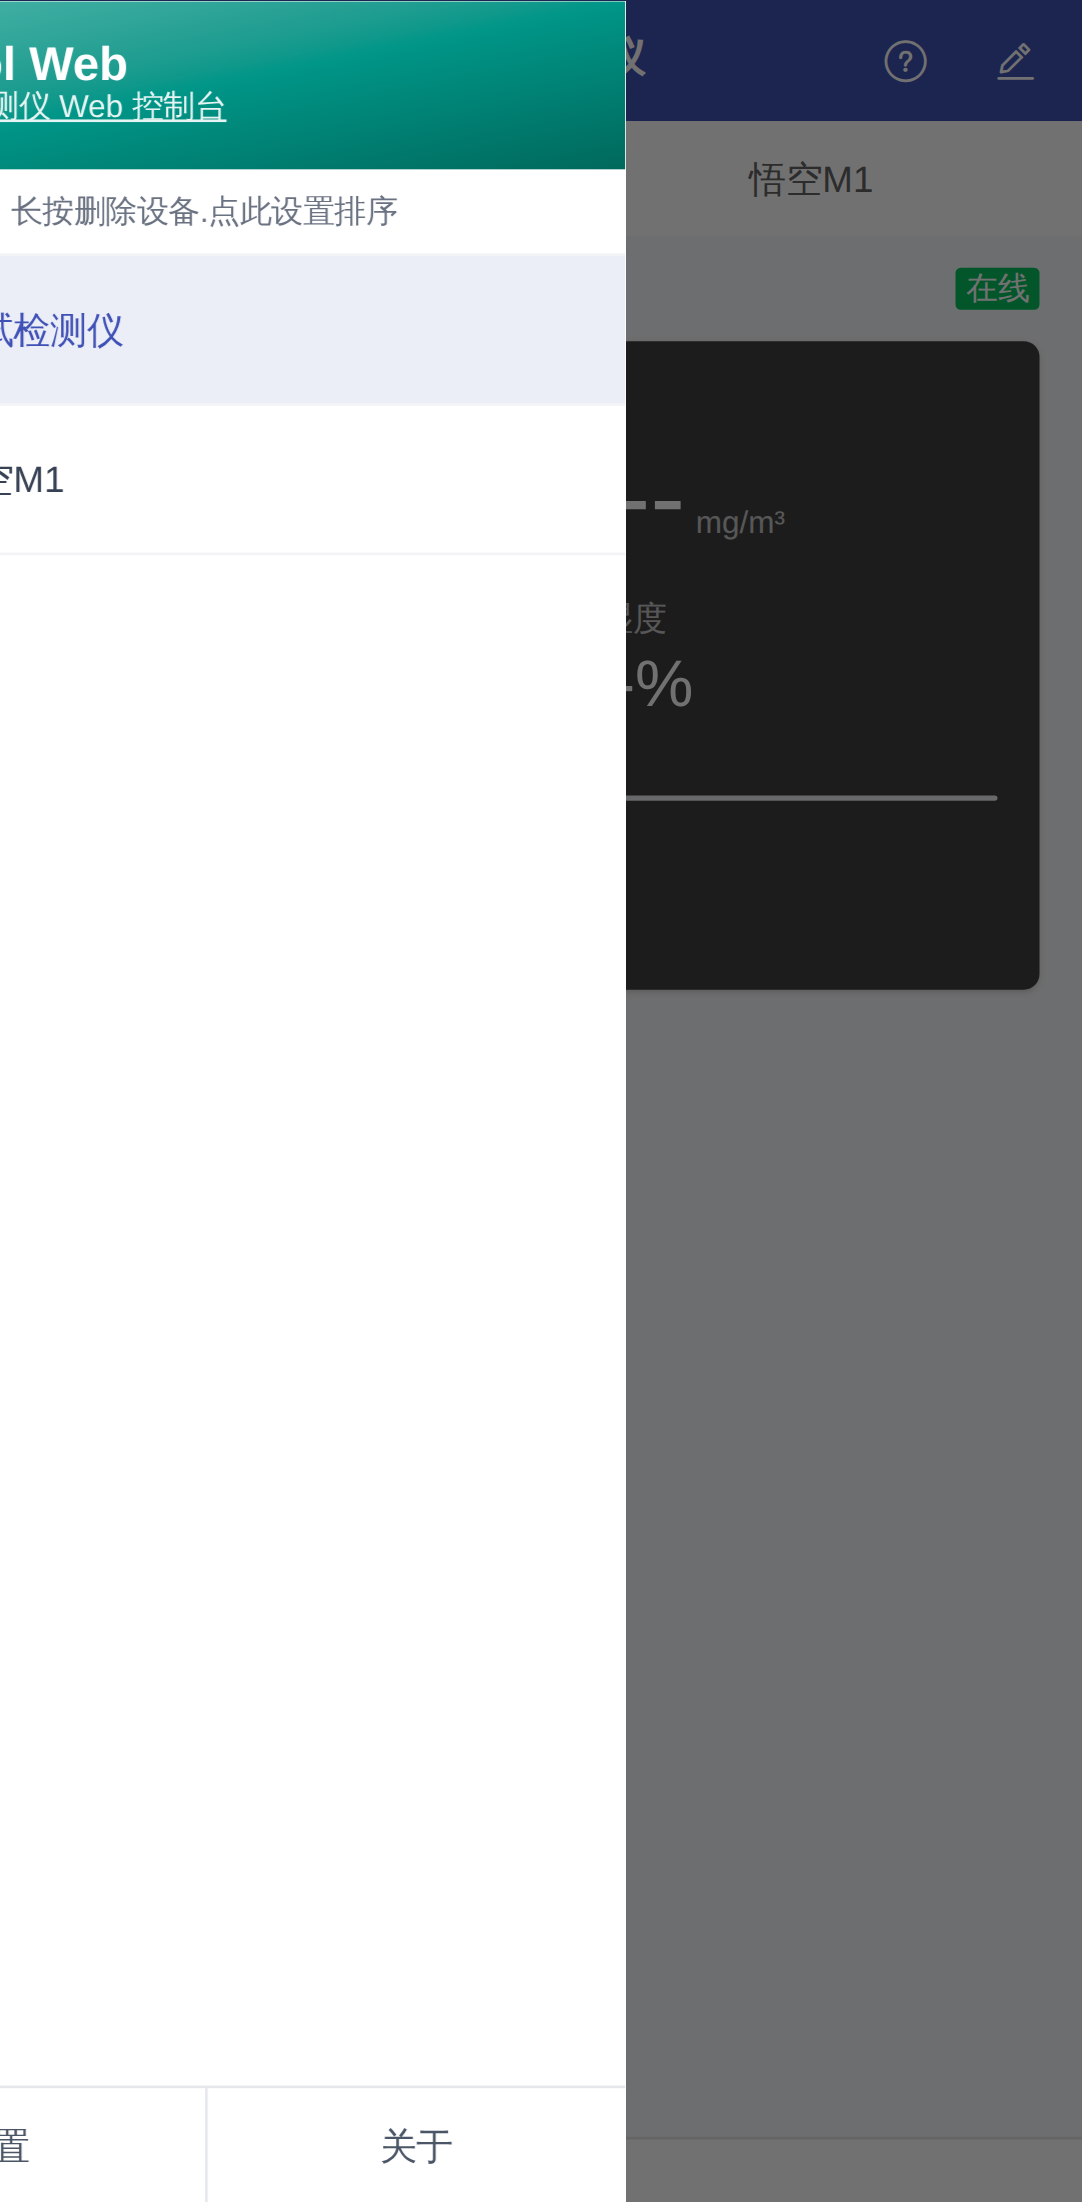
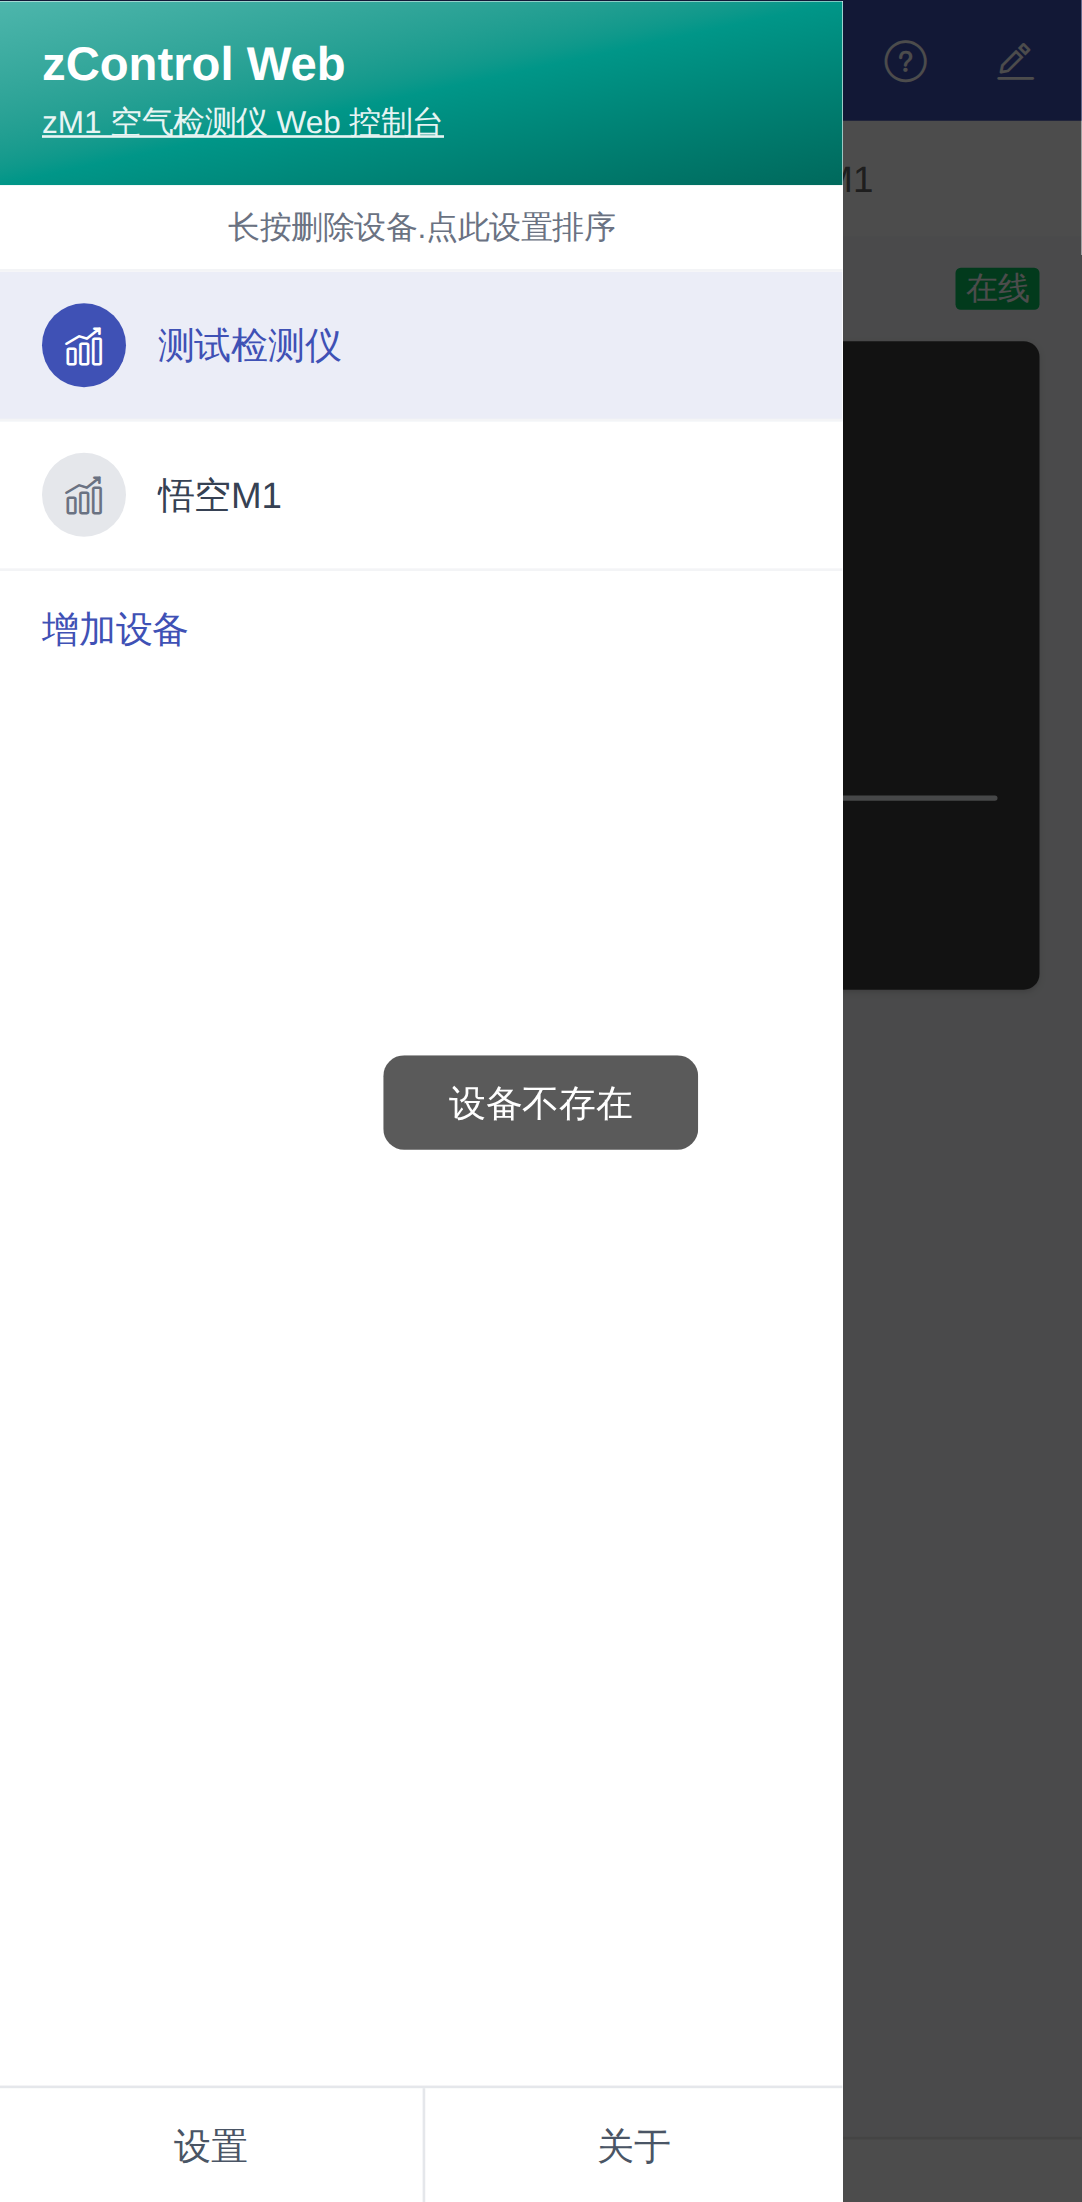
fix: 抽屉标题与副标题之间补回间距
上一版把标题行高收紧后，原来充当两行间距的行距一并消失，两行贴在一起了。
现显式给 6px 间距（gap-1.5），外层内边距仍保持上下一致。

整页截图按行统计文字像素（3x 无关，按 CSS 像素）：
  改前 上方 24 / 行间 0  / 下方 12
  改后 上方 18 / 行间 11 / 下方 17

diff --git a/apps/web/src/components/DeviceDrawer.vue b/apps/web/src/components/DeviceDrawer.vue
@@ -82,9 +82,9 @@ function pick(mac: string) {
 
 <template>
   <div class="flex h-full flex-col bg-white">
-    <!-- nav header：项目标识（渐变背景，上下留白一致） -->
+    <!-- nav header：项目标识（渐变背景，上下留白一致；两行之间留 6px 间距） -->
     <div
-      class="flex flex-col justify-end bg-gradient-to-br from-[#4DB6AC] via-[#009688] to-[#00695C] px-4 py-4 text-white"
+      class="flex flex-col justify-end gap-1.5 bg-gradient-to-br from-[#4DB6AC] via-[#009688] to-[#00695C] px-4 py-4 text-white"
     >
       <span class="text-lg leading-4 font-semibold" data-testid="drawer-title">zControl Web</span>
       <span
